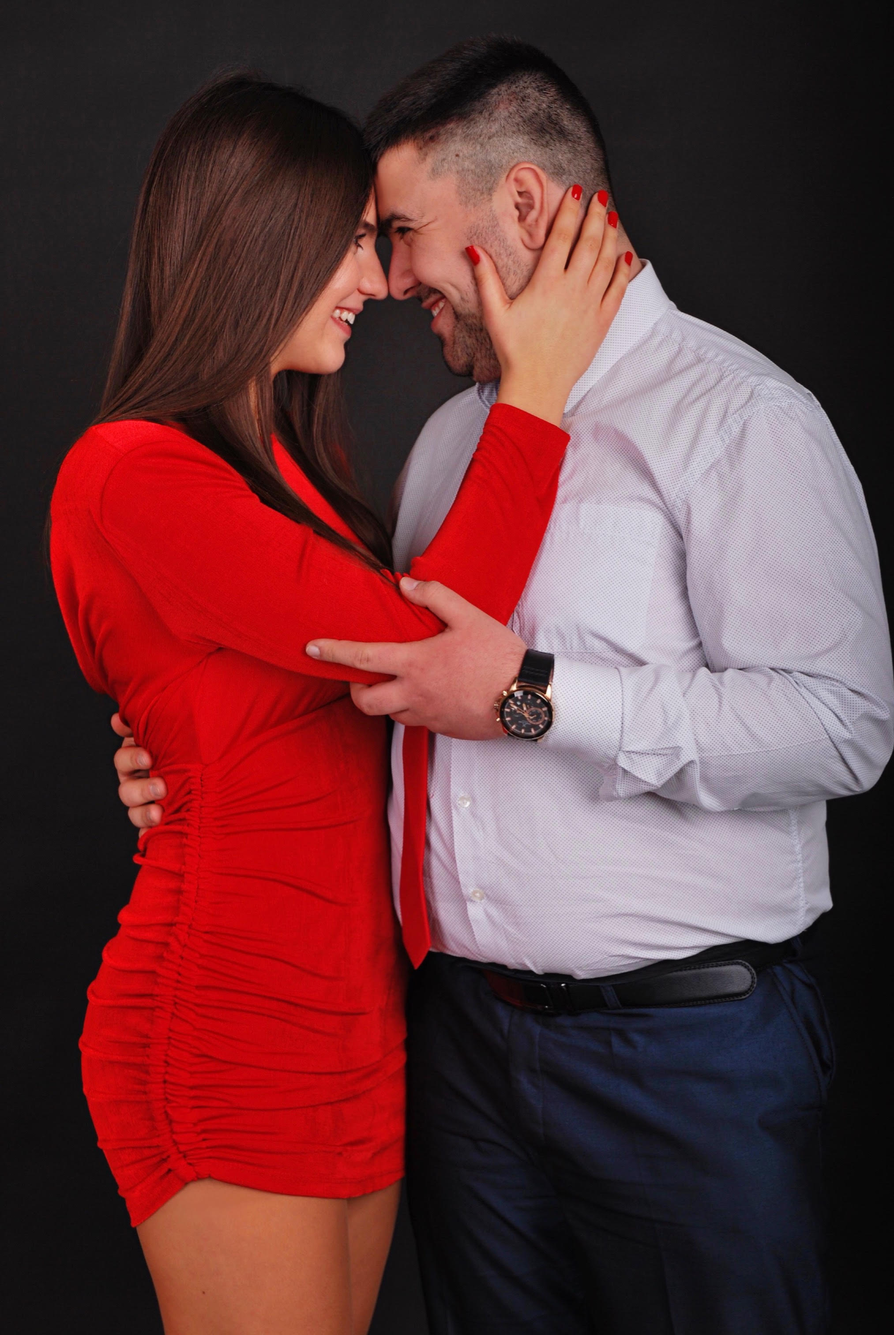
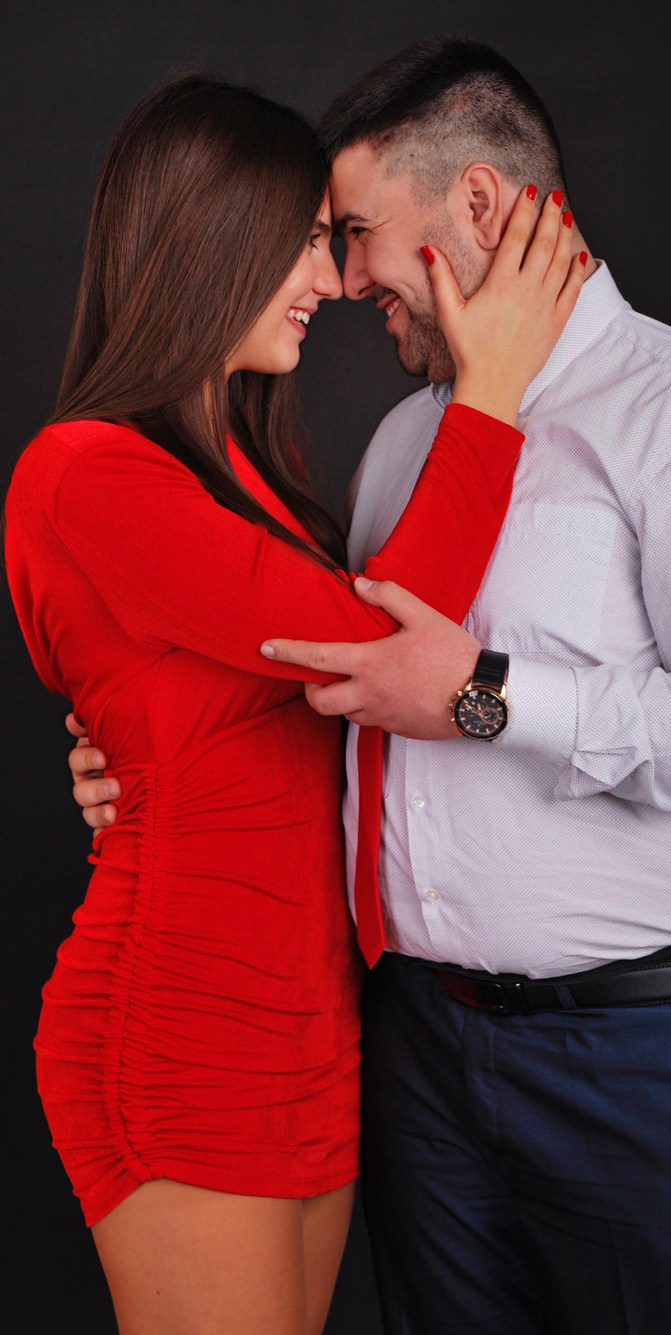
Add files via upload

diff --git a/index.html b/index.html
@@ -13,7 +13,7 @@
 
 body{
 margin:0;
-font-family:Segoe UI;
+font-family:Times New Roman;
 color:white;
 background:#0f2b1d;
 }
